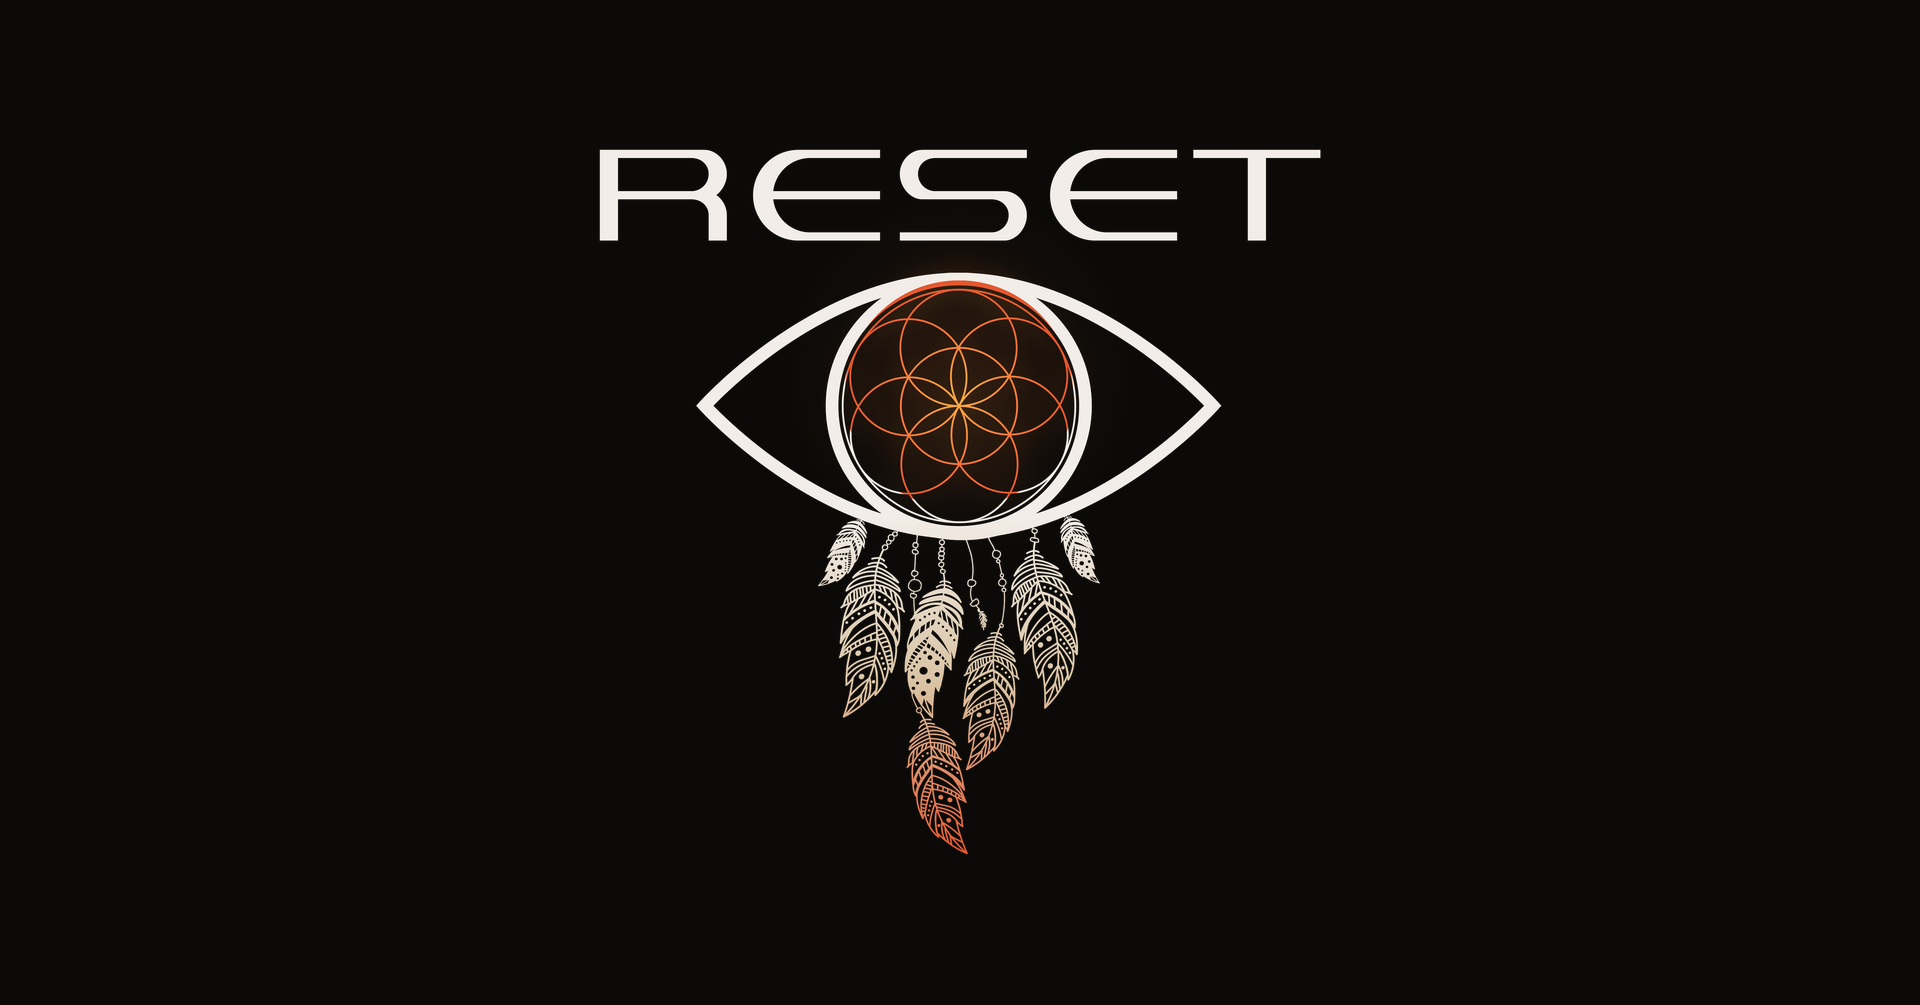
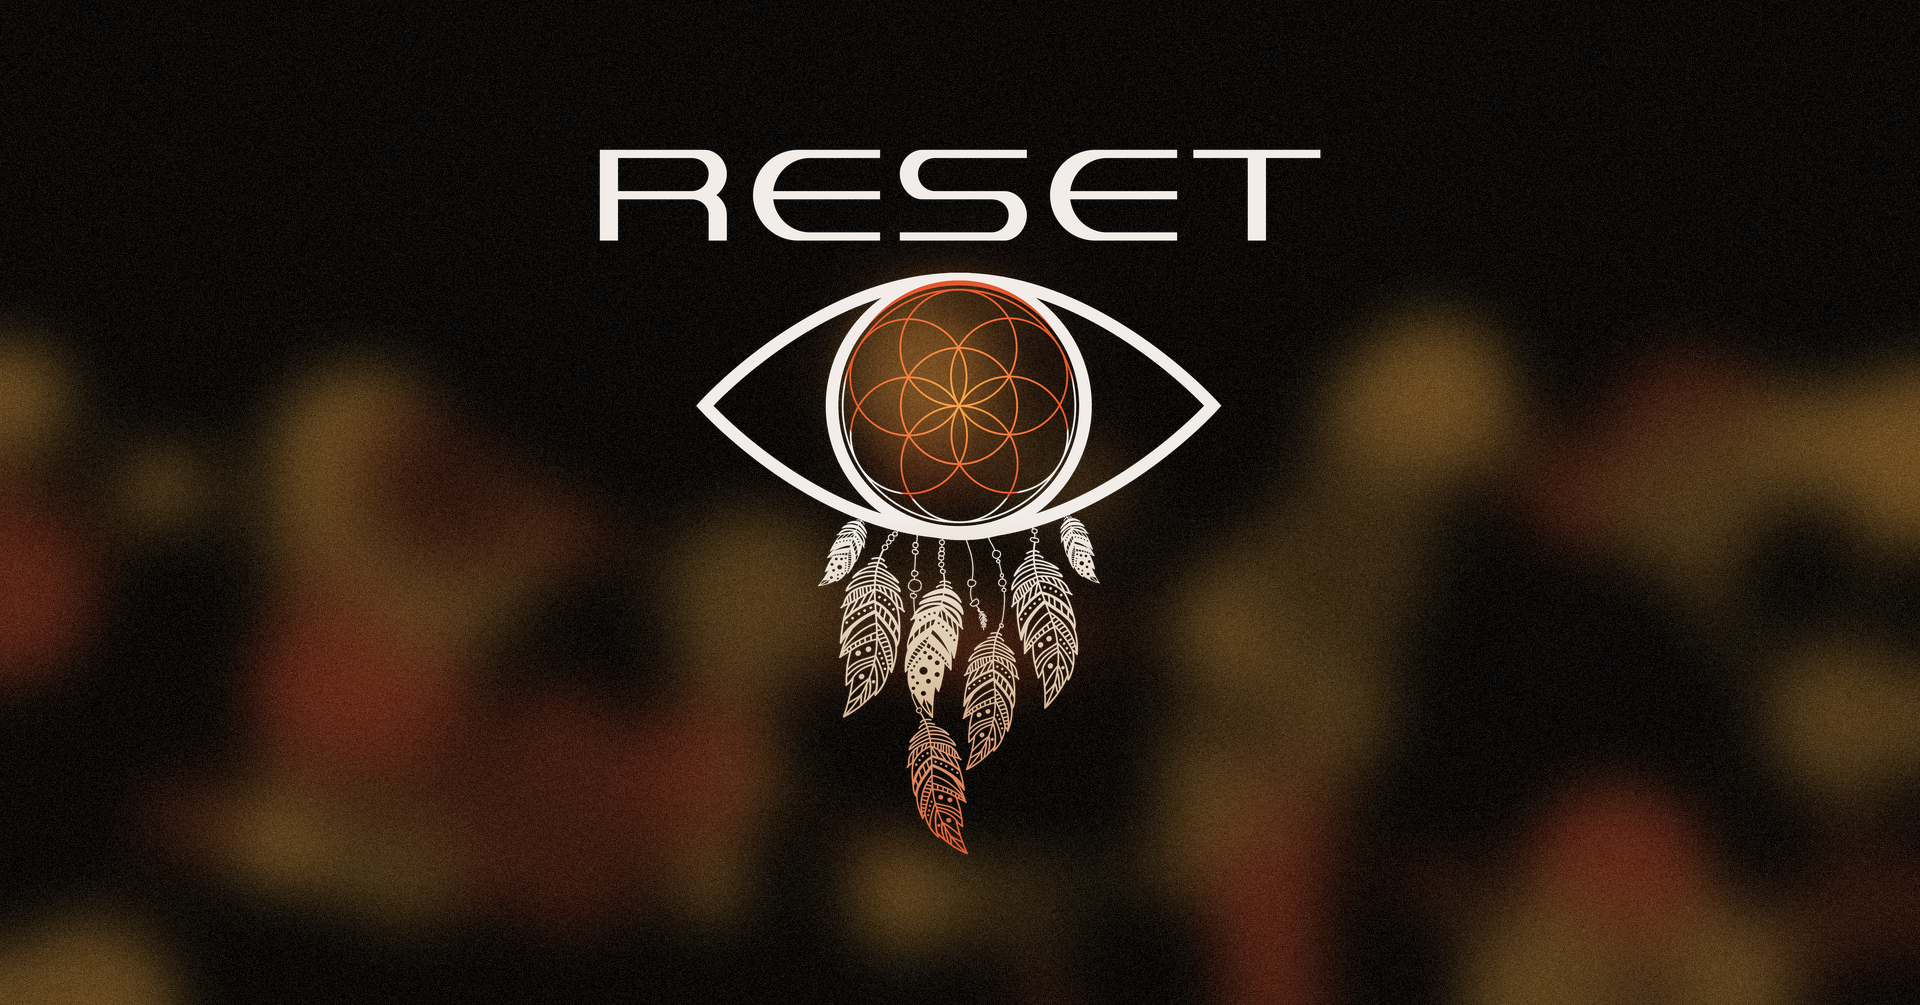
Review all three profiles and add atmosphere to the kit
PROFILES.md reviews Instagram, Facebook and Partiful field by field and
gives paste-ready name, bio, category, links and file names for each,
plus the highlight-cover mapping for the eight highlights. Kit builder
adds warm bokeh and grain to covers, banners and posts (not avatars),
covers for every existing highlight, and the missing Facebook 820x312,
Instagram 320 and Partiful banner sizes.

Claude-Session: https://claude.ai/code/session_014oF5PPiX5Dy1FmCLSSrqbm

diff --git a/pipeline/build_kit.py b/pipeline/build_kit.py
@@ -95,12 +95,32 @@ def fit(im, w, h, scale):
 def fit_h(im, h, scale):
     im = im.copy(); im.thumbnail((100000, int(h * scale)), Image.LANCZOS); return im
 
-def on_ground(lockup, w, h, scale=.72, dx=0, vignette=True):
+def atmosphere(w, h, seed=3, density=1.0):
+    """Warm bokeh: out-of-focus room lights, low on the frame, plus grain."""
+    rng = np.random.default_rng(seed)
+    layer_ = Image.new('RGBA', (w, h), (0, 0, 0, 0)); d = ImageDraw.Draw(layer_)
+    n = int(38 * density * (w * h) / (1080 * 1080)) + 8
+    for _ in range(n):
+        rr = int(rng.uniform(.012, .06) * max(w, h)); x = int(rng.uniform(0, w)); y = int(rng.uniform(h * .35, h * 1.05))
+        col = (AMBER if rng.random() < .55 else EMBER) + (int(rng.uniform(40, 110)),)
+        d.ellipse((x - rr, y - rr, x + rr, y + rr), fill=col)
+    layer_ = layer_.filter(ImageFilter.GaussianBlur(max(w, h) * .018))
+    return layer_
+
+def grain(im, amount=7, seed=1):
+    rng = np.random.default_rng(seed)
+    arr = np.array(im.convert('RGB')).astype(np.float32)
+    arr += rng.normal(0, amount, arr.shape[:2])[..., None]
+    return Image.fromarray(np.clip(arr, 0, 255).astype(np.uint8)).convert('RGBA')
+
+def on_ground(lockup, w, h, scale=.72, dx=0, vignette=True, atmo=False):
     bg = Image.new('RGBA', (w, h), GROUND + (255,))
     if vignette:
         v = Image.new('RGBA', (w, h), (0, 0, 0, 0)); d = ImageDraw.Draw(v)
         rr = int(max(w, h) * .55); d.ellipse((w/2 + dx - rr, h/2 - rr, w/2 + dx + rr, h/2 + rr), fill=EMBER + (40,))
         v = v.filter(ImageFilter.GaussianBlur(max(w, h) * .18)); bg.alpha_composite(v)
+    if atmo:
+        bg.alpha_composite(atmosphere(w, h)); bg = grain(bg)
     art = fit_h(lockup, h, scale) if w > h else fit(lockup, w, h, scale)
     bg.alpha_composite(art, (int((w - art.width) / 2 + dx), (h - art.height) // 2))
     return bg.convert('RGB')
@@ -124,10 +144,13 @@ def main():
     # 4. platform pack
     P = {
         'instagram/profile_1080':          ('full', 1080, 1080, .66, 0),
+        'instagram/profile_320':           ('full', 320, 320, .66, 0),
         'instagram/post_1080x1080':        ('full', 1080, 1080, .70, 0),
         'instagram/portrait_1080x1350':    ('full', 1080, 1350, .62, 0),
         'instagram/story_1080x1920':       ('full', 1080, 1920, .66, 0),
         'facebook/profile_720':            ('full', 720, 720, .66, 0),
+        'facebook/profile_180':            ('full', 180, 180, .66, 0),
+        'facebook/cover_820x312':          ('full', 820, 312, .84, 0),
         'facebook/cover_1640x624':         ('full', 1640, 624, .84, 0),
         'facebook/event_cover_1920x1005':  ('full', 1920, 1005, .82, 0),
         'x/profile_400':                   ('full', 400, 400, .66, 0),
@@ -142,6 +165,7 @@ def main():
         'linkedin/profile_400':            ('full', 400, 400, .66, 0),
         'linkedin/cover_1128x191':         ('full', 1128, 191, .84, 150),
         'partiful/host_avatar_512':        ('full', 512, 512, .66, 0),
+        'partiful/profile_banner_1500x500':('full', 1500, 500, .84, 0),
         'partiful/event_cover_1200x1200':  ('full', 1200, 1200, .70, 0),
         'web/og_image_1200x630':           ('full', 1200, 630, .84, 0),
         'web/apple_touch_180':             ('full', 180, 180, .66, 0),
@@ -149,7 +173,18 @@ def main():
         'web/icon_192':                    ('full', 192, 192, .66, 0),
     }
     for rel, (k, w, h, sc, dx) in P.items():
-        save(on_ground(L[k], w, h, sc, dx, vignette=(w == h)), f'04_platforms/{rel}.png')
+        is_avatar = any(t in rel for t in ('profile', 'avatar', 'icon', 'apple_touch'))
+        save(on_ground(L[k], w, h, sc, dx, vignette=(w == h), atmo=not is_avatar), f'04_platforms/{rel}.png')
+    # instagram highlight covers: the logo small, the word beneath, 1080 (IG crops to a circle)
+    from PIL import ImageFont
+    f = ImageFont.truetype(str(here / 'fonts/DMSans500.ttf'), 46)
+    for word in ('NEXT', 'RESET', 'ROOMS', 'SOUND', 'FACES', 'LIVE', 'UNLEASH', 'NYFW', 'UNDER JUNGLE', 'SOUND OF BRAZIL', 'SPEAKEASY', 'CHAPTER II'):
+        im = on_ground(L['full'], 1080, 1080, .46, vignette=False).convert('RGBA')
+        art = fit(L['full'], 1080, 1080, .46); im = Image.new('RGBA', (1080, 1080), GROUND + (255,))
+        im.alpha_composite(art, ((1080 - art.width) // 2, 225)); d = ImageDraw.Draw(im)
+        t = '  '.join(word) if len(word) <= 8 else ' '.join(word); tw = d.textlength(t, font=f)
+        d.text(((1080 - tw) / 2, 790), t, font=f, fill=SAND + (255,))
+        save(im.convert('RGB'), f'04_platforms/instagram/highlights/highlight_{word.replace(" ", "_")}_1080.png')
     # favicons: tighter crop, no glow so it stays crisp
     eye_crisp = render_lockup('full', glow=False)
     for s in (16, 32, 48, 64):

diff --git a/PROFILES.md b/PROFILES.md
@@ -1,0 +1,143 @@
+# RESET — the three profiles, reviewed and rewritten
+
+Reviewed 2026-09-27 from screenshots of Instagram, Facebook and Partiful.
+Everything below is paste-ready. File names point into `KIT/`.
+
+## What the three pages say today
+
+| | Instagram `@reset.info.nyc` | Facebook `RESET` | Partiful `RESET` |
+|---|---|---|---|
+| avatar | AI Afro-pattern collage, "RESET TALENT" | eye on a pink watercolour diamond | logo on tropical leaves |
+| cover | — | logo over an NYC sunset skyline | — |
+| name | `🎧🎶《•RESET TALENTS•》🎶🎧` | RESET | RESET |
+| bio | "RESET TALENTS: Curares events and gathering which are dedicated to love of music & offering services." | "Reset curates events and gatherings which are dedicated to the love of music, art, culture, and self-expression." | same as Facebook, in italics |
+| category | Community | Party Entertainment Service | — |
+| link | a 2025 Partiful for someone else's party, "and 2 more" | linktr.ee | — |
+| followers | 2,533 | 502 | — |
+
+Three logos, three bios, one page still called Talents. A guest who checks
+two of them cannot tell they are the same brand. The Facebook bio is the
+best of the three and the Partiful profile already lists LIVE After Dark
+nights under RESET, which is right.
+
+**The one sentence that is already good** and becomes the base for all three:
+
+> RESET curates events and gatherings dedicated to the love of music, art,
+> culture and self-expression.
+
+---
+
+## Instagram
+
+| field | paste this | file |
+|---|---|---|
+| profile picture | | `04_platforms/instagram/profile_1080.png` |
+| name | `RESET · NYC` | |
+| category | **Nightlife** or **Event** (Instagram's own list). Not Community. | |
+| bio | see below | |
+| links | 1. `https://partiful.com/e/tYzmDgbCjgGP3p5xYuva` (title: *AFTERLIFE · Oct 30*) 2. `https://partiful.com/u/8EE7eB9JfZKEyelrt8No` (title: *All RESET nights*). Remove the third. | |
+
+Bio, 148 characters:
+```
+Music, art, culture, self-expression.
+A New York night for the ones who were told no.
+Next: AFTERLIFE · Fri Oct 30 · RSVP below
+```
+
+Short version if you want the line about the door instead:
+```
+Music, art, culture, self-expression. NYC.
+Fri Oct 30: AFTERLIFE, behind the Coca-Cola door.
+RSVP below.
+```
+
+**Highlights.** You have seven and they are the archive: Reset, Unleash,
+NYFW After Party, Under Jungle, Sound of Brazil, Speakeasy, Chapter II. Keep
+every one; they are proof the brand existed. Give each the new cover so the
+row reads as one brand, and add one at the front:
+
+| position | highlight | cover file (`04_platforms/instagram/highlights/`) |
+|---|---|---|
+| 1 | **NEXT** (new; the AFTERLIFE story + link sticker lives here, standing) | `highlight_NEXT_1080.png` |
+| 2 | Reset | `highlight_RESET_1080.png` |
+| 3 | Unleash | `highlight_UNLEASH_1080.png` |
+| 4 | NYFW After Party | `highlight_NYFW_1080.png` |
+| 5 | Under Jungle | `highlight_UNDER_JUNGLE_1080.png` |
+| 6 | Sound of Brazil | `highlight_SOUND_OF_BRAZIL_1080.png` |
+| 7 | Speakeasy | `highlight_SPEAKEASY_1080.png` |
+| 8 | Chapter II | `highlight_CHAPTER_II_1080.png` |
+
+Instagram crops the cover to a circle around the centre; the files are built
+for that.
+
+**Grid.** Archive (do not delete) the 2023 posts where you played other
+promoters' nights under their branding: the Mollusca dinner party and the
+two Sonic Jungle posts. After the relaunch they can come back. On Oct 6 the
+first thing anyone sees should be the new mark.
+
+**Pinned**, in this order once they exist: the relaunch post (Oct 6), the
+AFTERLIFE flyer (Oct 13), the best recap reel from 2022 until a new one
+exists.
+
+---
+
+## Facebook
+
+| field | paste this | file |
+|---|---|---|
+| profile picture | | `04_platforms/facebook/profile_720.png` |
+| cover | | `04_platforms/facebook/cover_1640x624.png` (the 820×312 is the fallback if Facebook complains) |
+| name | RESET | |
+| category | **Nightlife** primary, Party Entertainment Service secondary | |
+| bio / intro | see below | |
+| website | the Partiful profile `https://partiful.com/u/8EE7eB9JfZKEyelrt8No` (replace linktr.ee unless the link page is rebuilt) | |
+| email | `reset.info.nyc@gmail.com`, keep | |
+| service area | Brooklyn, Manhattan, New Jersey, keep | |
+
+Intro, 101 characters:
+```
+RESET curates nights dedicated to music, art, culture and self-expression. New York. Next: Oct 30.
+```
+
+The skyline cover was a good instinct; the new cover keeps the mood (warm
+lights, night) without the stock sunset, so it matches Instagram.
+
+**Event.** Create the AFTERLIFE Facebook event with
+`04_platforms/facebook/event_cover_1920x1005.png`, link the Partiful as the
+ticket link, co-host with the LIVE After Dark page if one exists.
+
+---
+
+## Partiful
+
+| field | paste this | file |
+|---|---|---|
+| profile picture | | `04_platforms/partiful/host_avatar_512.png` |
+| banner (if the profile allows one) | | `04_platforms/partiful/profile_banner_1500x500.png` |
+| name | RESET | |
+| bio | `Music, art, culture, self-expression. A New York night for the ones who were told no.` | |
+| Instagram link | `reset.info.nyc`, keep | |
+
+On the AFTERLIFE event itself: cover from
+`SOCIAL/2026-10-30 AFTERLIFE/partiful_cover_1200x1200.png`, host reads
+RESET, replies Going / Maybe, reminder day-of 6PM.
+
+---
+
+## RESET Talents
+
+Separate account, separate page, its own mark in `TALENTS/`. Its bio points
+here; this bio does not mention Talents except in DMs. Rename the Instagram
+name field on *this* account first; the Talents name has been sitting on the
+wrong account.
+
+---
+
+## Order of operations, this week
+
+1. Instagram: picture, name, category, bio, links. Ten minutes.
+2. Instagram: the eight highlight covers.
+3. Facebook: picture, cover, category, intro, website.
+4. Partiful: picture, bio.
+5. Archive the three 2023 posts.
+6. Nothing goes on the grid until Tuesday, October 6.

diff --git a/KIT/README.md b/KIT/README.md
@@ -36,5 +36,11 @@ two-stage glow, feathers running bone → sand → ember at the tips. Ground is
 | Partiful | `partiful/host_avatar_512`, `event_cover_1200x1200` | host account + standing cover |
 | Web | `web/favicon.ico` (16/32/48), `favicon_*.png`, `apple_touch_180`, `icon_192`, `icon_512`, `og_image_1200x630` | link page |
 
+Covers, banners and posts carry an atmosphere layer: warm bokeh, the room's
+lights out of focus, plus film grain. Profile pictures and favicons stay
+clean so the mark reads at small size.
+
+`instagram/highlights/` has a cover for every existing highlight plus NEXT.
+
 Favicons carry the full logo with no glow so the strokes stay as crisp as
 16px allows. `web/icon_192` and `icon_512` are the ones browsers show most.

diff --git a/README.md b/README.md
@@ -10,6 +10,7 @@ the sibling [LIVE After Dark](https://github.com/resetinfonyc/Live-After-Dark-)
 repo.
 
 ```
+PROFILES.md                               Instagram, Facebook, Partiful: what each says now, what to paste
 BRAND/
   RESET_brand_audit_and_rebrand_plan.md   start here: audit, positioning, identity, relaunch plan
   *_contact_sheet.jpg                     the original logo files and the 2021–2022 flyers
